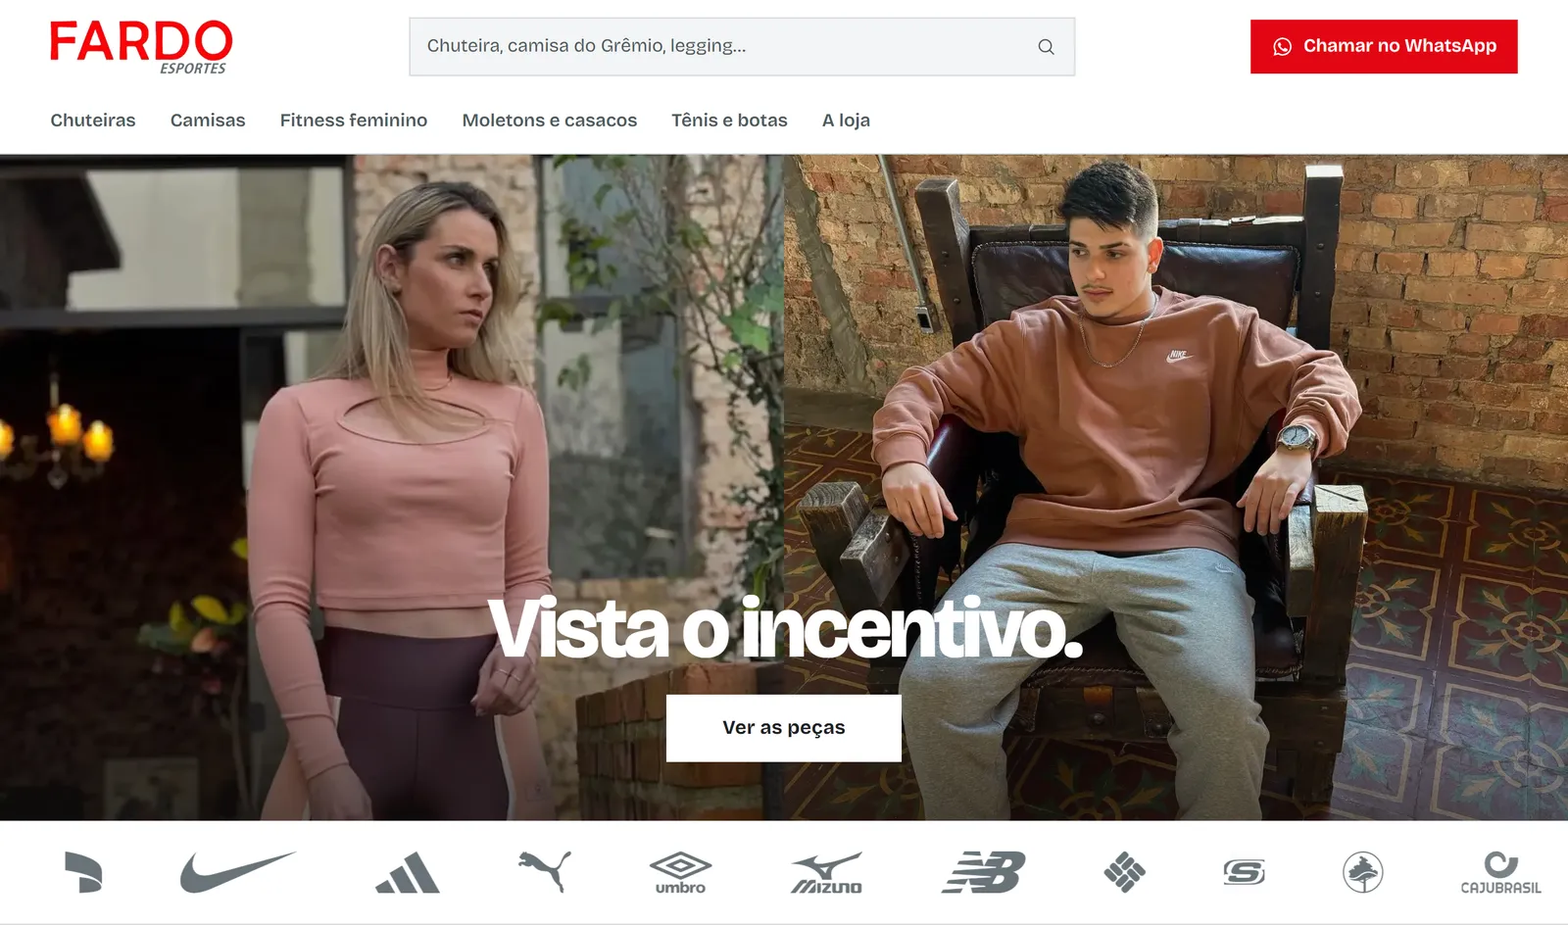
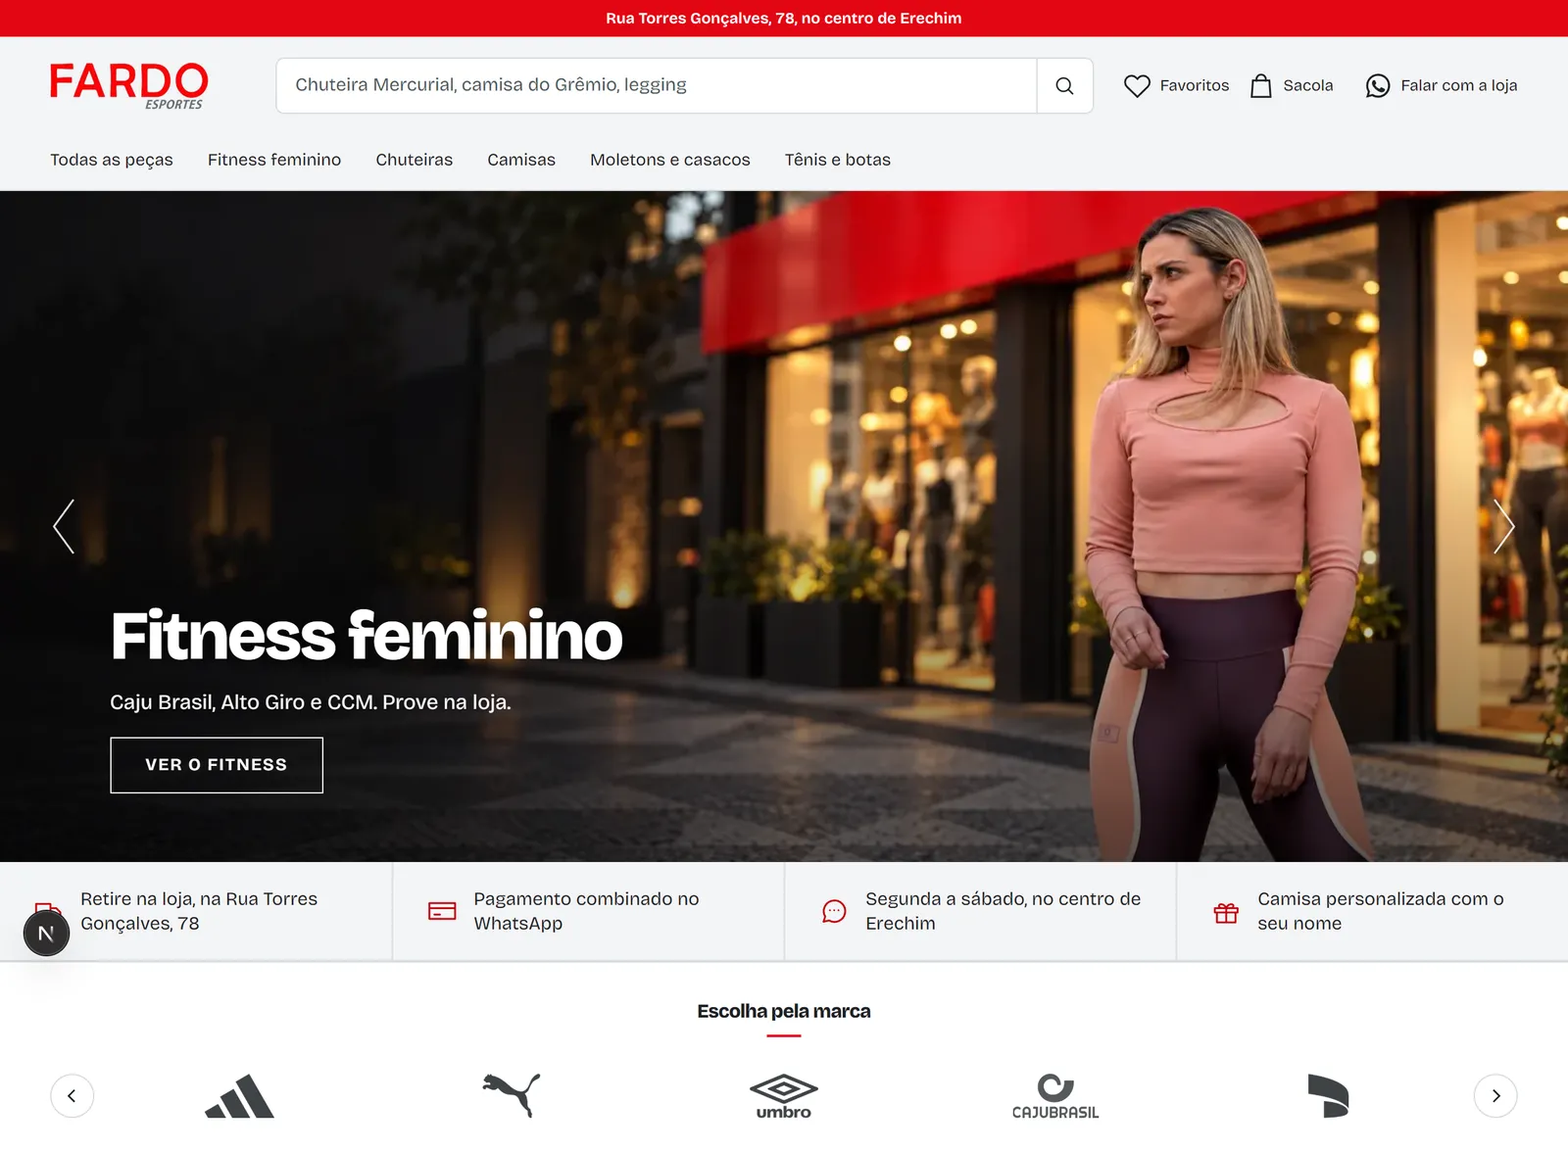
A proposta da Fardo Esportes refeita junto com a vitrine no molde novo: R$ 899 à vista no Pix ou R$ 999 no cartão em até 12x, 20 peças com fundo tratado na entrega e o suporte mensal como a condição para mais peças
A condição do Rafael em 19/10/2026: R$ 899 à vista no Pix, ou R$ 999 no cartão em até 12x com os juros do Mercado Pago (um recebimento; consultado na conta: 12x = R$ 1.219,88, e a página não escreve parcela). Sem entrada. Itens avista_pix 899 e avista_card 999 em lib/propostas.ts; antes era R$ 999 num Pix só.

As 60 peças com fundo tratado ficaram amplas demais: agora são até 20 na entrega e, acima disso, R$ 15 a cada 3 peças. O suporte mensal de R$ 149,90 (10 peças com fundo tratado, R$ 15 a extra) é a condição para quem manda peça todo mês.

As 5 pranchas são da vitrine refeita: a abertura com os banners, a fileira do fitness, o cupom de primeira compra, a página da chuteira com a numeração que pergunta, e o painel (estoque, Desempenho, Clientes). Capturas do dev local, porque a Vercel ainda serve a amostra antiga. Conferido: tsc com exit 0 e a página capturada em 1440 e 390, com as marcações ao lado dos textos.

diff --git a/public/proposta/fardo-esportes.html b/public/proposta/fardo-esportes.html
@@ -20,14 +20,20 @@
 <!-- ============================================================
      PROPOSTA COMERCIAL · FARDO ESPORTES (vitrine digital, Erechim RS)
      No molde de 25/09/2026 (public/proposta/template.html); foi o piloto dele.
-     Condicao da Valeria (24/09): R$ 999, PAGAMENTO UNICO no Pix, sem
-     entrada e sem parcelar. Item em lib/propostas.ts ("fardo-esportes":
-     avista_pix R$ 999). Dominio fora: R$ 40 por 1 ano.
-     Cadastro de ate 60 pecas na entrega, com o fundo tratado.
-     Suporte opcional R$ 149,90/mes: ate 10 pecas/mes com fundo tratado,
-     ate 3 fotos cada; peca extra R$ 15.
-     As pranchas: scripts/capturar-pranchas.mjs fardo-esportes
-       https://fardo-esportes.vercel.app --secoes fitness,camisas
+     REFEITA em 19/10/2026, junto com o rework da vitrine no molde novo
+     (padrao Alto Giro, banners, painel do @vitrine/plataforma).
+     Condicao do Rafael (19/10): R$ 899 A VISTA no Pix, ou R$ 999 no cartao
+     em ate 12x com os juros do Mercado Pago (consultado na conta em 19/10:
+     12x = R$ 1.219,88; nunca escrever a parcela a mao). Sem entrada.
+     Itens em lib/propostas.ts ("fardo-esportes": avista_pix 899, avista_card
+     999 em 12x). Dominio fora: R$ 40 por 1 ano.
+     Cadastro de ATE 20 pecas na entrega com o fundo tratado (eram 60: o
+     Rafael achou amplo demais); acima disso, R$ 15 a cada 3 pecas (o Rafael,
+     19/10: "3 pecas por 15 reais"). Suporte opcional R$ 149,90/mes: ate 10 pecas
+     com fundo tratado, ate 3 fotos cada; peca extra R$ 15.
+     As pranchas: capturas da vitrine nova (scratchpad/capturar-secoes.cjs
+     e scripts/capturar-pranchas.mjs no dev local), em
+     public/assets/proposta/fardo-esportes/.
      ============================================================ -->
 
 <link rel="icon" type="image/png" href="/assets/favicon.png" />
@@ -146,6 +152,8 @@ img{display:block;max-width:100%}
 .valor{padding-block:clamp(72px,12vw,140px)}
 .valor-numero{font-family:var(--font-display);font-weight:900;letter-spacing:-.05em;line-height:.85;font-size:clamp(5rem,24vw,15rem);margin-top:clamp(24px,4vw,40px);white-space:nowrap}
 .valor-numero small{font-size:.28em;letter-spacing:-.02em;vertical-align:.95em;margin-right:.08em}
+.valor-ou{font-family:var(--font-display);font-weight:900;font-size:clamp(1.3rem,5vw,2.2rem);letter-spacing:-.03em;line-height:1;margin-top:18px}
+.valor-ou small{font-family:var(--font-mono);font-weight:400;font-size:clamp(12px,3.4vw,14px);letter-spacing:0;color:var(--ink-55);display:block;margin-top:8px}
 .cota{position:relative;margin-top:22px;height:14px;border-bottom:2px solid var(--emerald)}
 .cota::before,.cota::after{content:"";position:absolute;bottom:-8px;width:2px;height:16px;background:var(--emerald)}
 .cota::before{left:0}.cota::after{right:0}
@@ -166,6 +174,9 @@ img{display:block;max-width:100%}
   letter-spacing:.02em;text-transform:uppercase;transition:background-color .2s;
 }
 .btn-pay:hover{background:#0ea371}
+.btn-pay + .btn-pay{margin-top:10px}
+.btn-pay--linha{background:transparent;border:2px solid var(--black);padding:13px 20px}
+.btn-pay--linha:hover{background:var(--black);color:var(--off-white)}
 .pagar-rodape{margin-top:12px;font-family:var(--font-mono);font-size:12px;color:var(--ink-55)}
 
 /* ——— Depois da publicação ——— */
@@ -214,7 +225,7 @@ img{display:block;max-width:100%}
 
   <header class="topo">
     <div class="marca">Rafael Razeira <small>Estúdio</small></div>
-    <time datetime="2026-09-25">25/09/2026</time>
+    <time datetime="2026-10-19">19/10/2026</time>
   </header>
 
   <!-- CAPA -->
@@ -223,9 +234,9 @@ img{display:block;max-width:100%}
       <p class="capa-para">Proposta para a Valeria, da Fardo Esportes</p>
       <h1>A Fardo inteira, num link só.</h1>
       <dl class="ficha">
-        <div><dt>A vitrine</dt><dd><a href="https://fardo-esportes.vercel.app" target="_blank" rel="noopener">fardo-esportes.vercel.app</a>, já construída</dd></div>
-        <div><dt>O que entra</dt><dd>Até 60 peças cadastradas por mim, com o fundo das fotos tratado</dd></div>
-        <div><dt>Investimento</dt><dd><b>R$ 999</b>, pagamento único no Pix, sem entrada</dd></div>
+        <div><dt>A vitrine</dt><dd><a href="https://fardo-esportes.vercel.app" target="_blank" rel="noopener">fardo-esportes.vercel.app</a>, já construída e refeita com banners, cupom e painel completo</dd></div>
+        <div><dt>O que entra</dt><dd>Até 20 peças cadastradas por mim, com o fundo das fotos tratado, e o painel para você cuidar do resto</dd></div>
+        <div><dt>Investimento</dt><dd><b>R$ 899</b> à vista no Pix, ou <b>R$ 999</b> no cartão em até 12x. Sem entrada</dd></div>
         <div><dt>No ar em</dt><dd>Até 5 dias úteis depois da sua lista de peças</dd></div>
       </dl>
     </div>
@@ -245,64 +256,79 @@ img{display:block;max-width:100%}
 
     <div class="prancha" data-prancha>
       <figure>
-        <img src="/assets/proposta/fardo-esportes/topo.webp" width="1600" height="944" alt="O topo da vitrine da Fardo Esportes: duas fotos de campanha, a busca e a faixa de marcas" />
-        <span class="pin" data-n="1" style="left:22%;top:40%">1</span>
-        <span class="pin" data-n="2" style="left:64%;top:5%">2</span>
-        <span class="pin" data-n="3" style="left:50%;top:88.8%">3</span>
+        <img src="/assets/proposta/fardo-esportes/topo.webp" width="1600" height="1175" alt="O topo da vitrine da Fardo Esportes: o banner do fitness, a busca, os benefícios e a faixa de marcas" />
+        <span class="pin" data-n="1" style="left:44%;top:55.5%">1</span>
+        <span class="pin" data-n="2" style="left:60%;top:7.4%">2</span>
+        <span class="pin" data-n="3" style="left:49.8%;top:79%">3</span>
       </figure>
       <div>
-        <p class="prancha-titulo">Prancha 1 de 4<b>A abertura</b></p>
+        <p class="prancha-titulo">Prancha 1 de 5<b>A abertura</b></p>
         <ol class="notas">
-          <li data-n="1"><span class="pin">1</span><span>As fotos da sua campanha, com gente vestindo a roupa, e a frase da sua bio: "Vista o incentivo."</span></li>
-          <li data-n="2"><span class="pin">2</span><span>A busca entende o jeito de perguntar da cliente: chuteira, camisa do Grêmio, legging.</span></li>
-          <li data-n="3"><span class="pin">3</span><span>As marcas que você trabalha, com o logo oficial de cada uma, passando devagar.</span></li>
+          <li data-n="1"><span class="pin">1</span><span>Três banners de campanha com as suas fotos (o fitness, a camisa do time e a loja), trocando sozinhos. A frase e o botão de cada um você muda pelo painel.</span></li>
+          <li data-n="2"><span class="pin">2</span><span>A busca entende o jeito de perguntar da cliente: chuteira Mercurial, camisa do Grêmio, legging.</span></li>
+          <li data-n="3"><span class="pin">3</span><span>O que só a Fardo oferece, logo abaixo: a retirada na loja, a camisa com o nome da cliente. E as marcas que você trabalha, com o logo oficial, levando às peças de cada uma.</span></li>
         </ol>
       </div>
     </div>
 
     <div class="prancha prancha--inv" data-prancha>
       <figure>
-        <img src="/assets/proposta/fardo-esportes/fitness.webp" width="1600" height="1075" alt="A seção de fitness feminino, com a faixa salmão da Caju Brasil e as fotos dos looks" />
-        <span class="pin" data-n="4" style="left:24%;top:33%">4</span>
-        <span class="pin" data-n="5" style="left:50%;top:26%">5</span>
-        <span class="pin" data-n="6" style="left:23%;top:60%">6</span>
+        <img src="/assets/proposta/fardo-esportes/fitness.webp" width="1600" height="875" alt="A fileira Fardamento de treino, com os conjuntos de fitness em cartões e a cor de cada um em bolinha" />
+        <span class="pin" data-n="4" style="left:30%;top:14%">4</span>
+        <span class="pin" data-n="5" style="left:92%;top:55%">5</span>
+        <span class="pin" data-n="6" style="left:10%;top:91.5%">6</span>
       </figure>
       <div>
-        <p class="prancha-titulo">Prancha 2 de 4<b>Fardamento de treino</b></p>
+        <p class="prancha-titulo">Prancha 2 de 5<b>Fardamento de treino</b></p>
         <ol class="notas">
-          <li data-n="4"><span class="pin">4</span><span>O fitness abre a página, logo depois do topo, porque é o que você quer vender mais. Cada marca tem uma faixa na cor das peças.</span></li>
-          <li data-n="5"><span class="pin">5</span><span>Todos os looks em foto grande, como foto revelada presa com fita. Nada escondido atrás de um clique.</span></li>
-          <li data-n="6"><span class="pin">6</span><span>Cada marca tem o seu botão: a cliente pergunta direto da Caju Brasil, da Alto Giro ou da CCM.</span></li>
+          <li data-n="4"><span class="pin">4</span><span>Uma fileira por categoria, e o fitness é a primeira, porque é o que você quer vender mais. O título e a frase são seus, pelo painel.</span></li>
+          <li data-n="5"><span class="pin">5</span><span>A fileira anda sozinha e tem setas; no celular, passa com o dedo. Toda peça leva à própria página.</span></li>
+          <li data-n="6"><span class="pin">6</span><span>A cor de cada peça vira uma bolinha, lida do nome que você deu a ela. "Preto e rosa" são duas.</span></li>
         </ol>
       </div>
     </div>
 
     <div class="prancha" data-prancha>
       <figure>
-        <img src="/assets/proposta/fardo-esportes/camisas.webp" width="1600" height="1148" alt="A seção de camisas, dividida entre Grêmio e Inter" />
-        <span class="pin" data-n="7" style="left:49.6%;top:34%">7</span>
-        <span class="pin" data-n="8" style="left:57%;top:94%">8</span>
+        <img src="/assets/proposta/fardo-esportes/cupom.webp" width="1600" height="500" alt="O banner do cupom de primeira compra, com a chuteira sobre a bola" />
+        <span class="pin" data-n="7" style="left:35%;top:61%">7</span>
       </figure>
       <div>
-        <p class="prancha-titulo">Prancha 3 de 4<b>Fardamento de torcida</b></p>
+        <p class="prancha-titulo">Prancha 3 de 5<b>O cupom de primeira compra</b></p>
         <ol class="notas">
-          <li data-n="7"><span class="pin">7</span><span>Gremista ou colorado, meio a meio, de adulto e infantil. É a única parte da vitrine com azul.</span></li>
-          <li data-n="8"><span class="pin">8</span><span>O aviso de que a camisa sai com o nome nas costas, que hoje só aparece nas suas legendas.</span></li>
+          <li data-n="7"><span class="pin">7</span><span>Quem toca em "Usar o cupom" abre o seu WhatsApp já com o código escrito. O desconto é o que você decidir; entre as fileiras há mais dois banners, o do fitness e o da loja, e a arte e a frase dos três se trocam pelo painel.</span></li>
         </ol>
       </div>
     </div>
 
     <div class="prancha prancha--inv" data-prancha>
       <figure>
-        <img src="/assets/proposta/fardo-esportes/peca.webp" width="1600" height="1000" alt="A página de uma peça, com o código e o botão de pedir no WhatsApp" />
-        <span class="pin" data-n="9" style="left:66.5%;top:46.5%">9</span>
-        <span class="pin" data-n="10" style="left:95%;top:76.5%">10</span>
+        <img src="/assets/proposta/fardo-esportes/peca.webp" width="1600" height="1000" alt="A página de uma chuteira, com a numeração para escolher e o pedido pelo WhatsApp" />
+        <span class="pin" data-n="8" style="left:84%;top:69%">8</span>
+        <span class="pin" data-n="9" style="left:64%;top:92.5%">9</span>
       </figure>
       <div>
-        <p class="prancha-titulo">Prancha 4 de 4<b>A página da peça</b></p>
+        <p class="prancha-titulo">Prancha 4 de 5<b>A página da peça</b></p>
         <ol class="notas">
-          <li data-n="9"><span class="pin">9</span><span>Toda peça tem um código. Quando a cliente chama, você sabe na hora de qual ela está falando.</span></li>
-          <li data-n="10"><span class="pin">10</span><span>O pedido chega no seu WhatsApp já montado, com a peça, o código e o recado dela. Você responde com o preço e o tamanho.</span></li>
+          <li data-n="8"><span class="pin">8</span><span>A cliente marca a numeração, ou o tamanho na roupa. Como você não publica a grade, a vitrine só pergunta: quem confirma se tem é você. Quando você quiser, o estoque por tamanho entra pelo painel.</span></li>
+          <li data-n="9"><span class="pin">9</span><span>O pedido chega no seu WhatsApp já montado, com a peça, o número e o recado dela. Você responde com o preço e combina a retirada.</span></li>
+        </ol>
+      </div>
+    </div>
+
+    <div class="prancha" data-prancha>
+      <figure>
+        <img src="/assets/proposta/fardo-esportes/painel.webp" width="1600" height="1043" alt="O painel da loja: peças, banners, textos do site, estoque, pedidos, desempenho e clientes" />
+        <span class="pin" data-n="10" style="left:9.5%;top:43%">10</span>
+        <span class="pin" data-n="11" style="left:13.5%;top:58%">11</span>
+        <span class="pin" data-n="12" style="left:9.5%;top:63%">12</span>
+      </figure>
+      <div>
+        <p class="prancha-titulo">Prancha 5 de 5<b>O seu painel</b></p>
+        <ol class="notas">
+          <li data-n="10"><span class="pin">10</span><span>Peça nova em dois minutos, pelo celular: foto, nome, preço, promoção, tamanhos e cor. E o estoque: "vendi uma", "chegou mais", e o site risca o tamanho que acabou.</span></li>
+          <li data-n="11"><span class="pin">11</span><span>Desempenho: quantas pessoas entraram, que peças olharam e quantas chamaram no WhatsApp. O básico é seu, sem mensalidade.</span></li>
+          <li data-n="12"><span class="pin">12</span><span>Clientes: quem deixou o WhatsApp para saber das novidades, ou pediu aviso de um tamanho que voltou. A lista é sua.</span></li>
         </ol>
       </div>
     </div>
@@ -310,9 +336,9 @@ img{display:block;max-width:100%}
     <div class="fora-da-tela">
       <h3>E o que não aparece na tela</h3>
       <ul>
-        <li><b>Até 60 peças cadastradas por mim</b> na entrega, com o fundo das fotos tratado. Você manda o nome, a referência e a cor; foto sua, ou eu uso a oficial da marca</li>
-        <li><b>O painel</b> para você mesma colocar e trocar peças, preço, promoção, tamanhos e destaque</li>
-        <li><b>A versão de celular</b>, para quem chega pelo Instagram</li>
+        <li><b>Até 20 peças cadastradas por mim</b> na entrega, com o fundo das fotos tratado. Você manda o nome, a referência e a cor; foto sua, ou eu uso a oficial da marca. Acima de 20, <b>R$ 15 a cada 3 peças</b></li>
+        <li><b>O painel</b> para você mesma colocar e trocar peças, banners, textos, preço, promoção, tamanhos e destaque</li>
+        <li><b>A versão de celular</b>, para quem chega pelo Instagram, e o painel também pelo celular</li>
         <li><b>O Google</b>: a Fardo aparece por nome e por "artigos esportivos em Erechim"</li>
         <li><b>O cartão do link</b>: a sua marca aparece quando alguém manda o endereço no WhatsApp</li>
         <li><b>2 rodadas de revisão</b> antes de publicar</li>
@@ -324,13 +350,14 @@ img{display:block;max-width:100%}
   <!-- INVESTIMENTO -->
   <section class="sec valor">
     <h2>O investimento</h2>
-    <p class="valor-numero"><small>R$</small>999</p>
+    <p class="valor-numero"><small>R$</small>899</p>
     <div class="cota" aria-hidden="true"></div>
-    <p class="cota-legenda">Uma vez só, no Pix, no dia da publicação. Sem entrada, sem mensalidade.</p>
+    <p class="cota-legenda">À vista no Pix, no dia da publicação. Sem entrada, sem mensalidade.</p>
+    <p class="valor-ou">ou R$ 999 no cartão, em até 12x<small>com os juros do Mercado Pago, calculados na hora, na parcela que você escolher</small></p>
 
     <div class="valor-grade">
       <div>
-        <p>A vitrine que você viu <b>já está construída</b>. O valor cobre o cadastro das suas peças com o fundo tratado, a revisão com você, a publicação e o treinamento do painel.</p>
+        <p>A vitrine que você viu <b>já está construída</b>. O valor cobre o cadastro de até 20 peças com o fundo tratado, a revisão com você, a publicação e o treinamento do painel. Quer mais peças já na entrega? <b>R$ 15 a cada 3 peças</b>.</p>
         <p>O domínio próprio, se você quiser o endereço com o nome da loja, é à parte: <b>R$ 40 por 1 ano</b>, registrado no nome da loja. Eu faço a configuração.</p>
         <div class="garantia">
           <p>Você paga <b>depois</b> de ver a vitrine publicada com as suas peças. Se ela não for o que você viu, <b>não existe cobrança</b>: nada foi adiantado.</p>
@@ -339,10 +366,12 @@ img{display:block;max-width:100%}
       <div class="pagar">
         <p class="pagar-titulo">Pagar no dia da publicação</p>
         <ul>
-          <li>QR code do Pix aqui na página, com confirmação na hora</li>
+          <li>Pix com QR code aqui na página, confirmação na hora</li>
+          <li>Ou cartão em até 12x, com a parcela calculada na tela</li>
           <li>Nada é pago antes: a vitrine sobe primeiro</li>
         </ul>
-        <button class="btn-pay" type="button" data-checkout-item="avista_pix">Pagar R$ 999 no Pix</button>
+        <button class="btn-pay" type="button" data-checkout-item="avista_pix">Pagar R$ 899 no Pix</button>
+        <button class="btn-pay btn-pay--linha" type="button" data-checkout-item="avista_card">Pagar R$ 999 no cartão, em até 12x</button>
         <p class="pagar-rodape">Processado pelo Mercado Pago, sem sair desta página.</p>
       </div>
     </div>
@@ -351,19 +380,19 @@ img{display:block;max-width:100%}
   <!-- DEPOIS DA PUBLICAÇÃO -->
   <section class="sec">
     <h2>Depois que ela estiver no ar</h2>
-    <p class="sec-intro">Você mesma consegue colocar e trocar peças pelo painel: é simples, e eu te mostro como no treinamento. Se preferir que eu cuide disso pra você todo mês, tem o plano de suporte.</p>
+    <p class="sec-intro">Você mesma consegue colocar e trocar peças pelo painel: é simples, e eu te mostro como no treinamento. Se preferir me mandar as peças e deixar as fotos comigo, tem o plano mensal.</p>
     <div class="opcoes">
       <div class="opcao">
         <h3>Você mesma cuida</h3>
         <p class="opcao-preco">R$ 0<small>/mês</small></p>
-        <p>Peça nova, foto, preço, promoção e destaque, direto do celular. Sem limite e sem pedir para ninguém.</p>
+        <p>Peça nova, foto, preço, promoção, estoque e destaque, direto do celular. Sem limite e sem pedir para ninguém.</p>
       </div>
       <div class="opcao">
         <h3>Eu cuido pra você</h3>
         <p class="opcao-preco">R$ 149,90<small>/mês</small></p>
         <p>Você me manda as peças novas pelo WhatsApp e eu trato o fundo das fotos, cadastro e atualizo. Sem fidelidade.</p>
         <ul>
-          <li><b>Até 10 peças por mês</b>, cada uma com até 3 fotos</li>
+          <li><b>Até 10 peças por mês</b>, cada uma com até 3 fotos, com o fundo tratado</li>
           <li>Trocar foto, preço, tamanhos ou cores do que já está na vitrine, e tirar o que acabou</li>
           <li>Acima de 10 peças no mês: <b>R$ 15 por peça extra</b></li>
           <li>Não acumula de um mês para o outro. Seção ou página nova é orçamento à parte</li>
@@ -378,9 +407,9 @@ img{display:block;max-width:100%}
     <p class="prazo">No ar em até 5 dias úteis depois da sua lista</p>
     <ol class="passos">
       <li><span>Você confirma o <b>aceite</b> pelo WhatsApp. Nada a pagar neste passo.</span></li>
-      <li><span>Você me manda a lista das peças, com <b>nome, referência e cor</b>, e as fotos que tiver. Me diz também quais peças da prévia ainda existem na loja (as camisas e o fitness saíram de postagens de 2022 a 2024) e, se tiver, o logo da CCM.</span></li>
+      <li><span>Você me manda a lista das peças (até 20), com <b>nome, referência e cor</b>, e as fotos que tiver. Me diz também quais peças da prévia ainda existem na loja, o desconto do cupom de primeira compra e, se tiver, o logo da CCM.</span></li>
       <li><span>Eu cadastro, trato as fotos, reviso com você e publico.</span></li>
-      <li><span>Com a Fardo no ar e aprovada, você paga os <b>R$ 999 no Pix</b>, aqui nesta página.</span></li>
+      <li><span>Com a Fardo no ar e aprovada, você paga aqui nesta página: <b>R$ 899 no Pix</b>, ou <b>R$ 999 no cartão</b> em até 12x.</span></li>
     </ol>
   </section>
 
@@ -390,8 +419,8 @@ img{display:block;max-width:100%}
     <ul>
       <li>Domínio próprio: R$ 40 por 1 ano, à parte, no nome da loja</li>
       <li>Carrinho e pagamento online: o pedido fecha no WhatsApp</li>
-      <li>Controle de estoque, ERP e nota fiscal</li>
-      <li>Tirar as fotos: a foto é sua (do celular serve) ou a oficial da marca; o tratamento do fundo é comigo</li>
+      <li>ERP e nota fiscal</li>
+      <li>Tirar as fotos: a foto é sua (do celular serve) ou a oficial da marca; o tratamento do fundo é comigo, nas 20 peças da entrega e no plano mensal</li>
       <li>Simulador de frete e de parcelamento: preço e entrega ficam para a conversa</li>
     </ul>
   </section>

diff --git a/lib/propostas.ts b/lib/propostas.ts
@@ -204,14 +204,17 @@ export const PROPOSTAS: Record<string, Proposta> = {
       saldo_card: { label: "Saldo na entrega, no cartão em até 4x", valor: 1500, metodo: "card", maxParcelas: 4 },
     },
   },
-  /* A Fardo fecha como a Minas: pagamento único no Pix, sem entrada e
-     sem parcelar (condição passada à Valeria em 24/09). O domínio, R$ 40
-     por 1 ano, é cobrado à parte e não tem botão aqui. */
+  /* A Fardo (refeita em 19/10/2026, a condição do Rafael no mesmo dia):
+     R$ 899 À VISTA no Pix, ou R$ 999 no CARTÃO em até 12x com os juros do
+     Mercado Pago (o Brick calcula cada parcela na hora e o MP repassa de
+     uma vez: UM recebimento). Sem entrada. Antes (25/09) era R$ 999 num
+     Pix só. O domínio, R$ 40 por 1 ano, é cobrado à parte e não tem botão. */
   "fardo-esportes": {
-    titulo: "Rafael Razeira Estúdio — Vitrine Digital Fardo Esportes",
+    titulo: "Rafael Razeira Estúdio, Vitrine Digital Fardo Esportes",
     whatsapp: "5544991246187",
     itens: {
-      avista_pix: { label: "Vitrine digital, pagamento único no Pix", valor: 999, metodo: "pix" },
+      avista_pix: { label: "Vitrine digital, à vista no Pix", valor: 899, metodo: "pix" },
+      avista_card: { label: "Vitrine digital, no cartão em até 12x", valor: 999, metodo: "card", maxParcelas: 12 },
     },
   },
   /* A VAYLW abriu como a Fardo (01/10/2026): R$ 999 no Pix, sem entrada.
